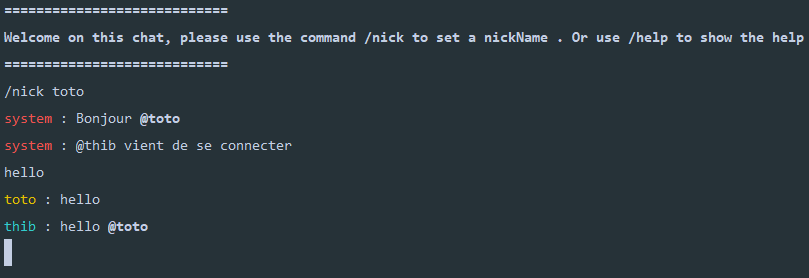
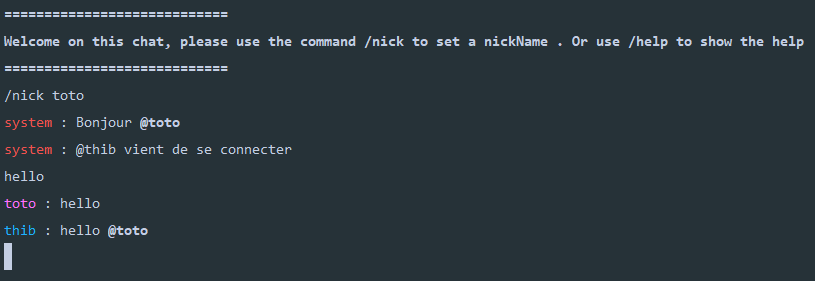
try to use full english

diff --git a/server/src/Plugins/UserPlugin.ts b/server/src/Plugins/UserPlugin.ts
@@ -52,8 +52,8 @@ export class UserPlugin implements IPlugin {
                 socket.broadcast.emit('msg', sendMSGAsSystem(`@${oldNickName} just renamed to @${user.nickName}`));
                 console.log(`user ${oldNickName} just renamed to ${user.nickName} (id:${socket.id})`);
             } else {
-                socket.emit('msg', sendMSGAsSystem(`Bonjour @${user.nickName}`));
-                socket.broadcast.emit('msg', sendMSGAsSystem(`@${user.nickName} vient de se connecter`));
+                socket.emit('msg', sendMSGAsSystem(`Hello @${user.nickName}`));
+                socket.broadcast.emit('msg', sendMSGAsSystem(`@${user.nickName} just connected`));
                 console.log(`user ${user.nickName} just connected (id:${socket.id})`);
             }
         }
@@ -80,7 +80,7 @@ export class UserPlugin implements IPlugin {
     handleEvents(event: EPluginEvents, context: IPluginContext): void {
         const { socket, user } = context;
         if (event === EPluginEvents.DISCONNECTION) {
-            socket.broadcast.emit('msg', sendMSGAsSystem(`@${user.nickName} vient de se déconnecter`));
+            socket.broadcast.emit('msg', sendMSGAsSystem(`@${user.nickName} just disconnected`));
             console.log(`user ${user.nickName} just disconnected (id:${socket.id})`);
             Users.delete(socket.id);
         }
